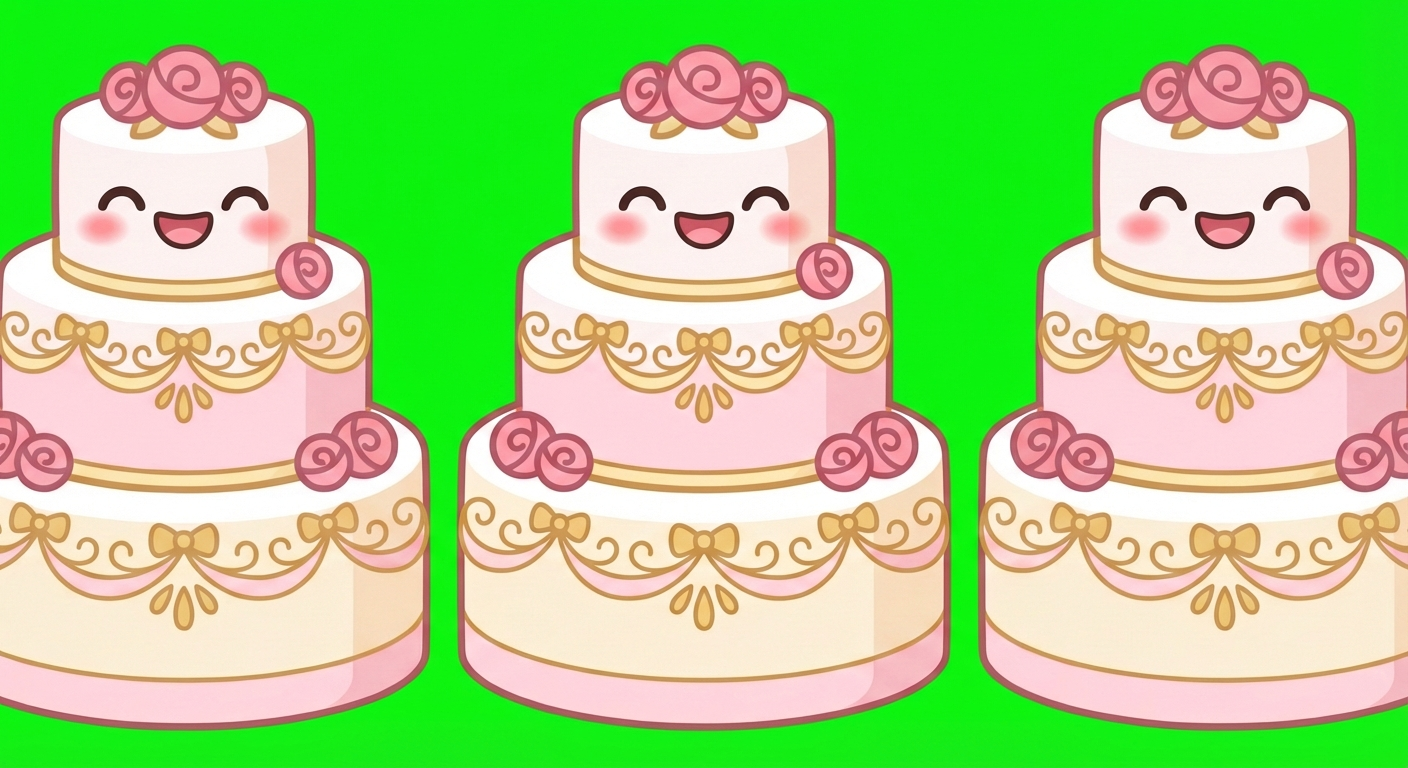
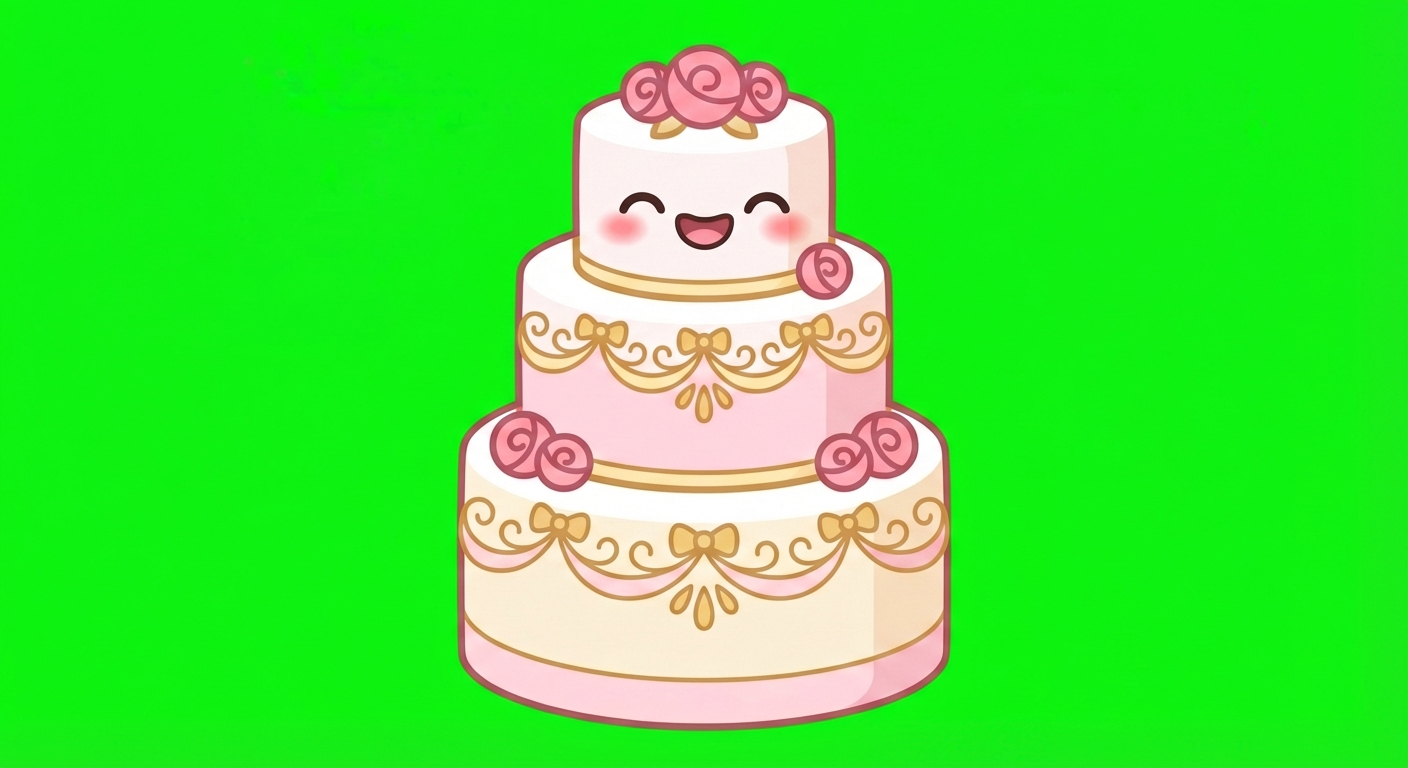
Refactor piece sizing system and add high-res textures
- Separate textureSize (600px, same for all) from displaySize (per-piece)
- Add radiusRatio for independent physics radius control
- Add showRadiusBorder debug setting for tweaking
- Fix big-ol-cake-a-rinos-1 to show single cake
- Update spritesheet script to use global textureSize
- Tune display sizes and radius ratios for better piece progression

🤖 Generated with [Claude Code](https://claude.com/claude-code)

diff --git a/src/ui/utils/piece-sprite.ts b/src/ui/utils/piece-sprite.ts
@@ -1,7 +1,7 @@
 import type { Spritesheet } from 'pixi.js';
-import { PixiAssets, PixiGraphics, PixiSprite, PixiTexture } from '../../plugins/engine';
+import { PixiAssets, PixiContainer, PixiGraphics, PixiSprite, PixiTexture } from '../../plugins/engine';
 import { Manager } from '../../entities/manager';
-import type { TierConfig } from '../../shared/config/game-config';
+import { getDisplaySize, shouldShowRadiusBorder, type TierConfig } from '../../shared/config/game-config';
 
 interface PieceSpriteOptions {
   targetDiameter?: number;
@@ -20,7 +20,8 @@ const fallbackTextureCache: Map<string, PixiTexture> = new Map();
 let cachedSpritesheet: Spritesheet | null = null;
 
 export function createPieceSprite(tier: TierConfig, options: PieceSpriteOptions = {}): PixiSprite {
-  const targetDiameter = options.targetDiameter ?? tier.radius * 2;
+  // Use displaySize for visual rendering (independent of physics radius)
+  const targetDiameter = options.targetDiameter ?? getDisplaySize(tier.id);
   const textures = getTierTextures(tier);
 
   if (textures.length > 0) {
@@ -33,10 +34,41 @@ export function createPieceSprite(tier: TierConfig, options: PieceSpriteOptions 
     spriteWithFrames.pieceActiveFrameIndex = findActiveFrameIndex(tier.frames);
 
     setSpriteFrameIndex(spriteWithFrames, 0);
+
+    // Debug: show physics radius border
+    if (shouldShowRadiusBorder()) {
+      return wrapWithRadiusBorder(sprite, tier);
+    }
+
     return sprite;
   }
 
   return createFallbackSprite(tier, targetDiameter / 2);
+}
+
+function wrapWithRadiusBorder(sprite: PixiSprite, tier: TierConfig): PixiSprite {
+  const container = new PixiContainer();
+
+  // Draw circle showing physics radius
+  const border = new PixiGraphics();
+  border.circle(0, 0, tier.radius);
+  border.stroke({ color: tier.color, alpha: 0.7, width: 2 });
+
+  container.addChild(border);
+  container.addChild(sprite);
+
+  // Copy sprite properties to container for compatibility
+  const spriteWithFrames = sprite as PieceSpriteWithFrames;
+  const containerAsSprite = container as unknown as PieceSpriteWithFrames;
+  containerAsSprite.pieceFrameTextures = spriteWithFrames.pieceFrameTextures;
+  containerAsSprite.pieceTargetDiameter = spriteWithFrames.pieceTargetDiameter;
+  containerAsSprite.pieceActiveFrameIndex = spriteWithFrames.pieceActiveFrameIndex;
+  containerAsSprite.pieceFrameIndex = spriteWithFrames.pieceFrameIndex;
+
+  // Store reference to the actual sprite for frame changes
+  (container as any)._innerSprite = sprite;
+
+  return container as unknown as PixiSprite;
 }
 
 function getSpritesheet(): Spritesheet | null {
@@ -127,19 +159,24 @@ function createFallbackSprite(tier: TierConfig, radius: number): PixiSprite {
 }
 
 function setSpriteFrameIndex(sprite: PieceSpriteWithFrames, frameIndex: number): void {
-  const textures = sprite.pieceFrameTextures;
+  // Handle wrapped container case (when radius border is shown)
+  const innerSprite = (sprite as any)._innerSprite as PieceSpriteWithFrames | undefined;
+  const targetSprite = innerSprite ?? sprite;
+
+  const textures = targetSprite.pieceFrameTextures ?? sprite.pieceFrameTextures;
   if (!textures?.length) {
     return;
   }
 
   const clamped = Math.max(0, Math.min(frameIndex, textures.length - 1));
-  if (sprite.pieceFrameIndex === clamped && sprite.texture === textures[clamped]) {
+  if (targetSprite.pieceFrameIndex === clamped && targetSprite.texture === textures[clamped]) {
     return;
   }
 
+  targetSprite.pieceFrameIndex = clamped;
   sprite.pieceFrameIndex = clamped;
-  sprite.texture = textures[clamped];
-  applyScaleForTexture(sprite, textures[clamped]);
+  targetSprite.texture = textures[clamped];
+  applyScaleForTexture(targetSprite, textures[clamped]);
 }
 
 function applyScaleForTexture(sprite: PieceSpriteWithFrames, texture: PixiTexture): void {

diff --git a/src/shared/config/game-config.ts b/src/shared/config/game-config.ts
@@ -1,12 +1,13 @@
 interface PieceSizeConfig {
   id: number;
   name: string;
-  spriteSize: number;
-  radius?: number; // optional override for physics radius
+  displaySize: number;  // visual size on board (bigger per tier)
+  radiusRatio?: number; // physics radius = displaySize * radiusRatio / 2 (default 1.0)
 }
 
 interface PieceSizesConfig {
-  scale: number;
+  textureSize: number;  // texture resolution in spritesheet (same for all, high res)
+  showRadiusBorder?: boolean;  // debug: show circle outline for physics radius
   pieces: PieceSizeConfig[];
 }
 
@@ -23,13 +24,29 @@ export interface TierConfig {
   cap?: boolean;
 }
 
-// Calculate radius from sprite size using shared scale factor
-// If piece has explicit radius override, use that instead
+// Calculate radius from displaySize
+// radiusRatio adjusts physics sphere relative to visual size (default 1.0)
 const getRadius = (id: number): number => {
   const piece = pieceSizes.pieces.find(p => p.id === id);
   if (!piece) return 30;
-  if (piece.radius !== undefined) return piece.radius;
-  return Math.round(piece.spriteSize * pieceSizes.scale);
+  const ratio = piece.radiusRatio ?? 1.0;
+  return Math.round((piece.displaySize / 2) * ratio);
+};
+
+// Get texture size for spritesheet generation (same for all pieces)
+export const getTextureSize = (): number => {
+  return pieceSizes.textureSize ?? 300;
+};
+
+// Debug setting: show radius border around pieces
+export const shouldShowRadiusBorder = (): boolean => {
+  return pieceSizes.showRadiusBorder ?? false;
+};
+
+// Get display size for in-game rendering
+export const getDisplaySize = (id: number): number => {
+  const piece = pieceSizes.pieces.find(p => p.id === id);
+  return piece?.displaySize ?? 60;
 };
 
 export interface GameConfig {
@@ -87,7 +104,7 @@ export const GAME_CONFIG: GameConfig = {
   dropRateLimit: 3, // 10 drops per 10 seconds
   
   // Tier system
-  allowedSpawnTierIds: [1,2,3,4,5,6,7],
+  allowedSpawnTierIds: [6,7,8,9,10],
   // Radii derived from piece-sizes.json (spriteSize * scale)
   tiers: [
     {
